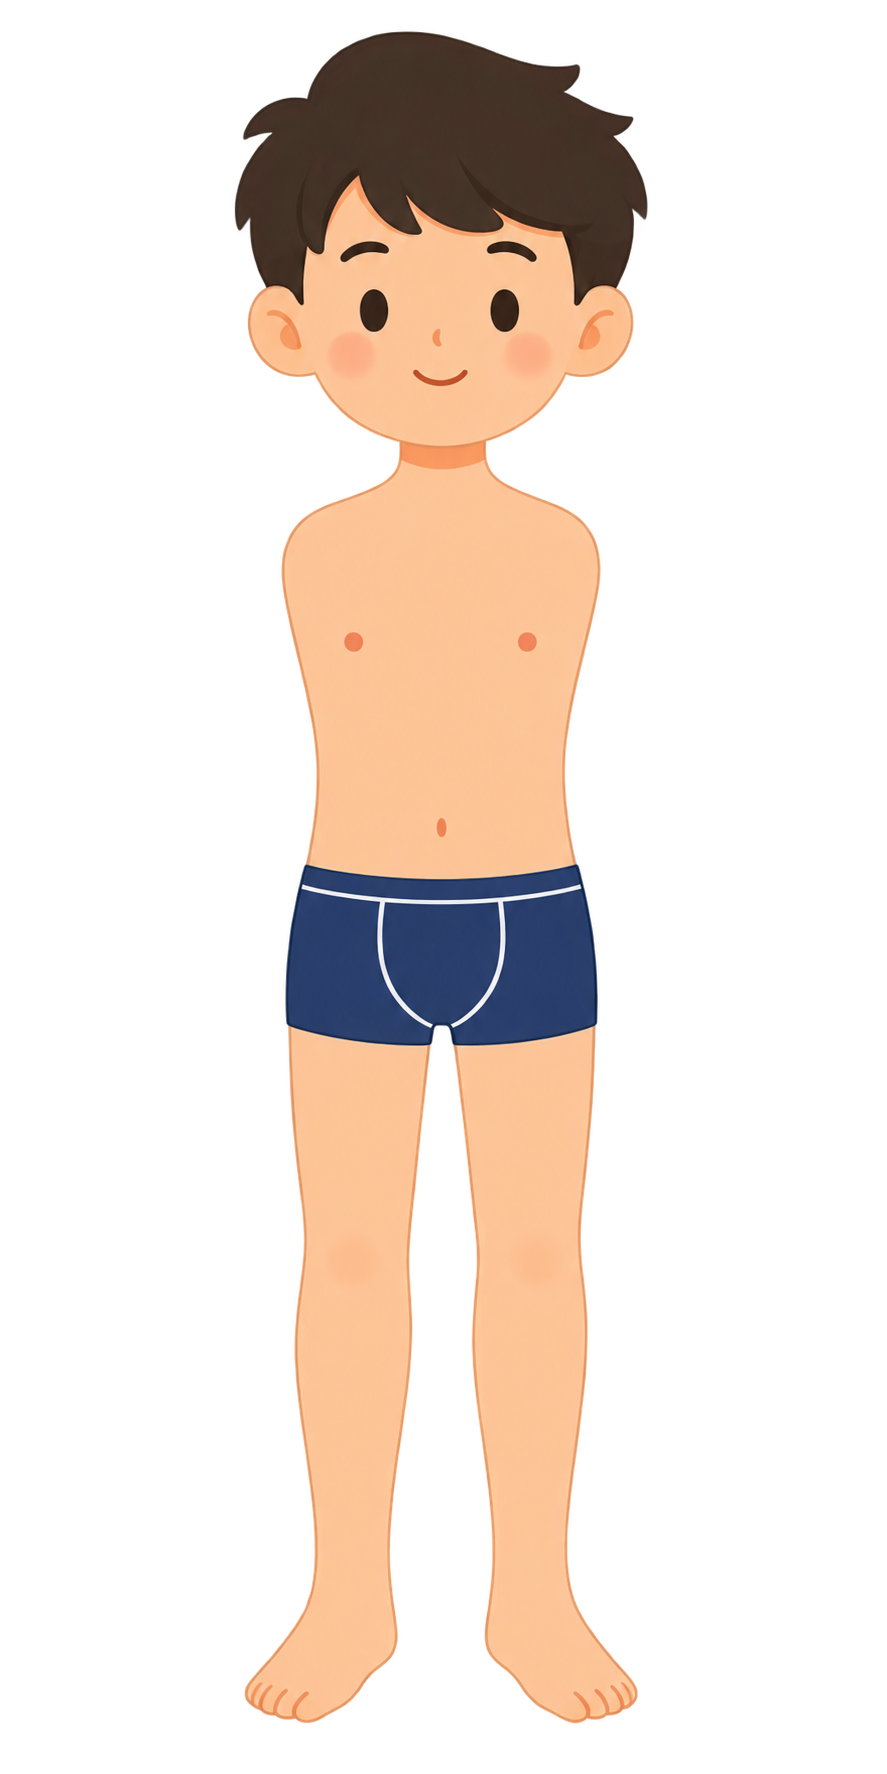
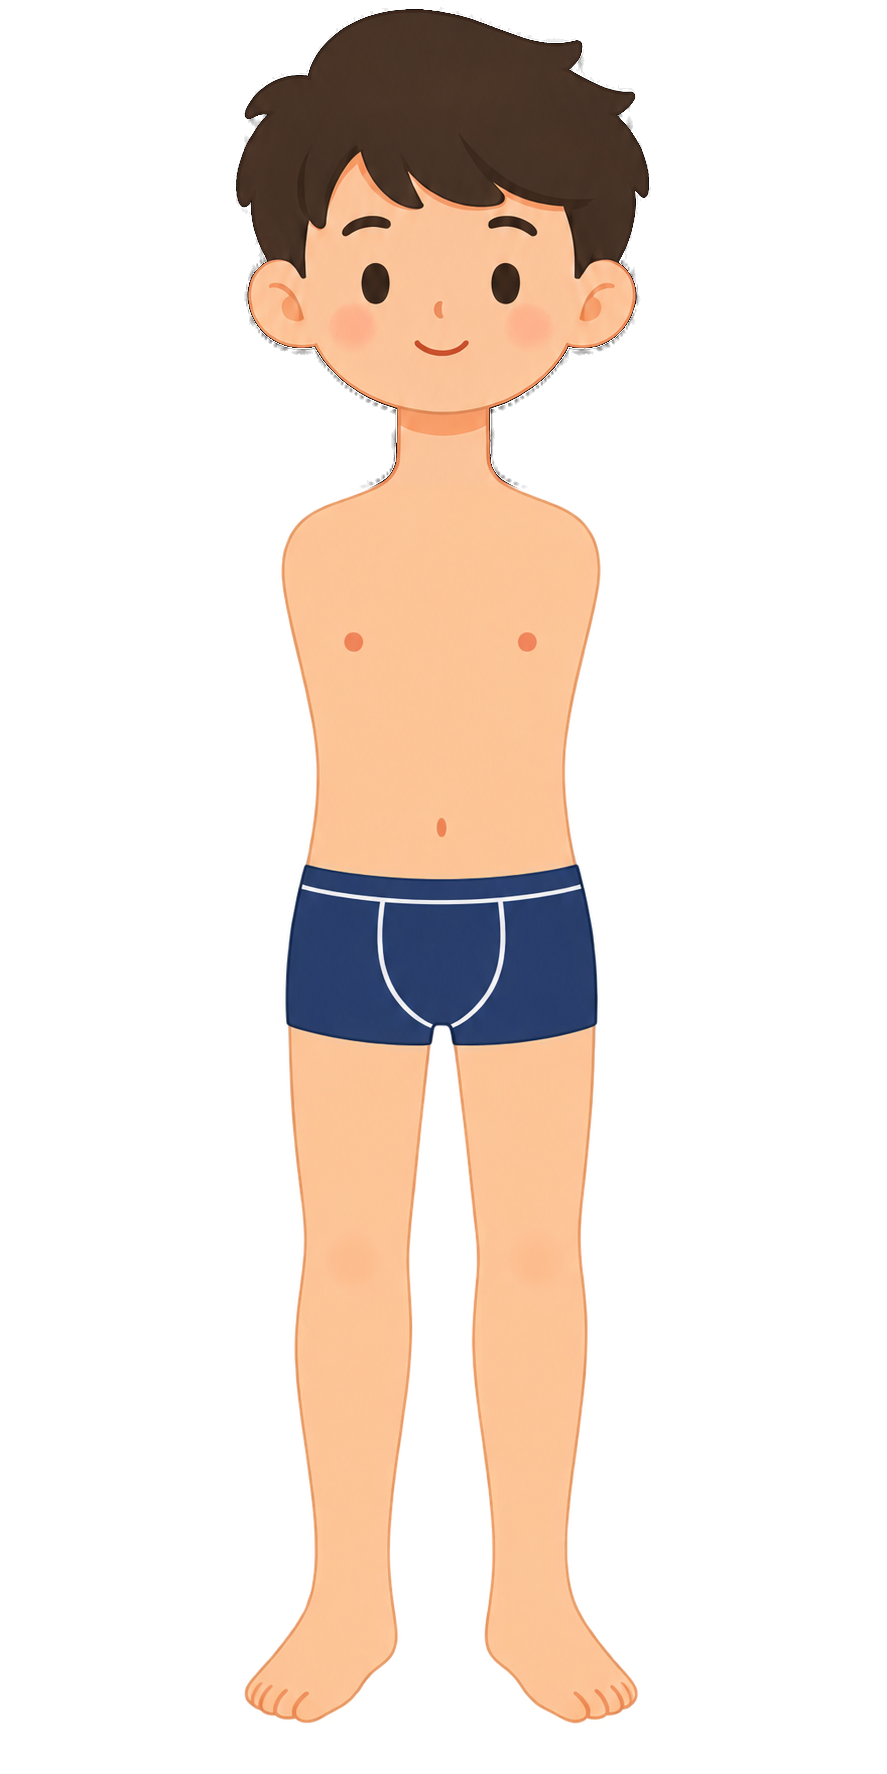
脖子伸长

Changed region(s): [[0.2435, 0.0, 0.7306, 0.279]]

diff --git a/src/features/tryon2d/tryOn2dController.js b/src/features/tryon2d/tryOn2dController.js
@@ -39,6 +39,17 @@ const MALE_CFG = {
   armPostAlignArcNudgePx: 8,
   garmentTopDropPx: 14,
   garmentShoulderPadPx: 18,
+
+  // v5: keep the original garment sizing. The only extra shoulder rule is
+  // a vertical contour guard: after the original scale is chosen, move the
+  // garment upward only when either detected garment shoulder would sit below
+  // the character shoulder contour. No additional shoulder-driven scaling.
+  garmentShoulderContourGuardEnabled: true,
+
+  // v6: after the original placement + minimal shoulder contour guard,
+  // translate male upper garments upward by a tiny fixed amount only.
+  // This never changes scale, X placement, arm geometry, or body position.
+  garmentFinalTopLiftPx: 0,
   garmentTorsoCoverFactor: 1.03,
   garmentScaleNudge: 1.03,
   garmentMinVerticalRatio: 0.84,
@@ -1962,6 +1973,8 @@ function createGarmentPlacement(garmentPrepared) {
     (ACTIVE_CFG.garmentTorsoCoverFactor || 1) /
     garmentUpperToHem;
 
+  // v5 deliberately restores the original sizing decision exactly. Shoulder
+  // coverage is NOT allowed to increase scaleX beyond this value.
   const gScaleX =
     Math.min(scaleByShoulder, scaleByTorsoHeight) *
     (ACTIVE_CFG.garmentScaleNudge || 1);
@@ -1970,12 +1983,39 @@ function createGarmentPlacement(garmentPrepared) {
 
   const topDropPx = ACTIVE_CFG.garmentTopDropPx || 0;
 
-  // Freeze the upper placement before any vertical compression.
+  // Freeze the original horizontal placement and initial vertical placement.
+  // Only the vertical shoulder-contour guard below may translate the garment.
   const gxFixed = bodyCenterX - f.centerX * gScaleX;
-  const gyFixed =
+  let gyFixed =
     shoulderY +
     topDropPx -
     f.shoulderMidY * gScaleY;
+
+  if (ACTIVE_CFG.garmentShoulderContourGuardEnabled) {
+    // Smaller Y is visually higher. The garment shoulder contour only needs
+    // to be on/above the body shoulder contour; there is no extra pad, no
+    // neckline lift, and no scale change.
+    const bodyShoulderContourY = Math.min(
+      bodySL.y,
+      bodySR.y
+    );
+
+    const garmentShoulderContourY = Math.max(
+      gyFixed + f.leftShoulder.y * gScaleY,
+      gyFixed + f.rightShoulder.y * gScaleY
+    );
+
+    if (garmentShoulderContourY > bodyShoulderContourY) {
+      gyFixed -=
+        garmentShoulderContourY -
+        bodyShoulderContourY;
+    }
+  }
+
+  // v6: a small final upward translation for male top/coat placement.
+  // Female has no garmentFinalTopLiftPx field, so its existing behavior is
+  // byte-for-byte equivalent through this branch.
+  gyFixed -= ACTIVE_CFG.garmentFinalTopLiftPx || 0;
 
   function anchors(scaleY) {
     return {
@@ -2370,6 +2410,60 @@ function renderTryOnComposite(
   // reveal the top through its neckline/opening instead of revealing bare skin.
   drawGarmentLayer(ctx, topLayout);
   drawGarmentLayer(ctx, coatLayout);
+
+  ctx.restore();
+}
+
+
+function renderMaleBaseComposite(ctx, state) {
+  const { body, leftArm, rightArm } = state;
+
+  ctx.save();
+  ctx.setTransform(1, 0, 0, 1, 0, 0);
+  ctx.clearRect(
+    0,
+    0,
+    ctx.canvas.width,
+    ctx.canvas.height
+  );
+  ctx.restore();
+
+  const armCtx = createArmContext(state);
+
+  ctx.save();
+  ctx.translate(
+    horizontalRenderPadPx(),
+    0
+  );
+
+  // v5: the male character always uses the same reference canvas, even when
+  // no upper garment/pants are active. This removes the old DOM-image <->
+  // composite-canvas swap that made the body appear to shift on try-on.
+  ctx.drawImage(
+    body,
+    0,
+    0,
+    ACTIVE_REFERENCE.width,
+    ACTIVE_REFERENCE.height
+  );
+
+  drawArm(
+    ctx,
+    leftArm,
+    armCtx.shoulders.left,
+    armCtx.lPivot,
+    armCtx.leftArmScale,
+    0
+  );
+
+  drawArm(
+    ctx,
+    rightArm,
+    armCtx.shoulders.right,
+    armCtx.rPivot,
+    armCtx.rightArmScale,
+    0
+  );
 
   ctx.restore();
 }
@@ -2964,7 +3058,16 @@ export function mountTryOn2dController(store) {
       pantsLayer.style.visibility = "hidden";
     }
 
-    if (!topSrc && !coatSrc && !wantsPantsComposite) {
+    const wantsMaleBase =
+      gender === "male" &&
+      !topSrc &&
+      !coatSrc &&
+      !wantsPantsComposite;
+
+    // Female keeps the original DOM-only idle path. Male deliberately stays on
+    // the same 887x1774 canvas in every state so the long-neck body never swaps
+    // back to character_male.png and never changes apparent position.
+    if (!topSrc && !coatSrc && !wantsPantsComposite && !wantsMaleBase) {
       state.suppressRawPants = false;
       state.renderSequence += 1;
       state.lastRenderedKey = null;
@@ -3069,7 +3172,7 @@ export function mountTryOn2dController(store) {
           }
         );
       } else if (topPrepared || coatPrepared) {
-        // Exact pre-existing upper-body render function.
+        // Existing upper-body render function.
         renderTryOnComposite(
           ctx,
           state,
@@ -3078,6 +3181,8 @@ export function mountTryOn2dController(store) {
             coatPrepared
           }
         );
+      } else if (gender === "male") {
+        renderMaleBaseComposite(ctx, state);
       } else {
         state.hasFrame = false;
         state.lastRenderedKey = null;
@@ -3115,6 +3220,23 @@ export function mountTryOn2dController(store) {
         "[tryon2d] composite render failed, falling back to original wearable layers.",
         error
       );
+
+      if (
+        gender === "male" &&
+        state.ready &&
+        state.sceneKey === "male"
+      ) {
+        // Even on an invalid garment source, never swap the male character back
+        // to the old short-neck DOM image. Keep the same base canvas/coordinates.
+        renderMaleBaseComposite(ctx, state);
+        state.hasFrame = true;
+        state.lastRenderedKey = String(key);
+        state.lastPantsLayout = null;
+        state.usesPantsComposite = false;
+        activate();
+        hideDebug();
+        return;
+      }
 
       state.hasFrame = false;
       state.lastRenderedKey = null;
@@ -3168,7 +3290,18 @@ export function mountTryOn2dController(store) {
     const hasCustomMalePants =
       gender === "male" && Boolean(pantsSrc);
 
-    if (!topSrc && !coatSrc && !hasCustomMalePants) {
+    const isMaleBaseState =
+      gender === "male" &&
+      !topSrc &&
+      !coatSrc &&
+      !hasCustomMalePants;
+
+    if (
+      gender === "female" &&
+      !topSrc &&
+      !coatSrc &&
+      !hasCustomMalePants
+    ) {
       state.suppressRawPants = false;
       state.lastPantsError = null;
       state.renderSequence += 1;
@@ -3178,10 +3311,7 @@ export function mountTryOn2dController(store) {
       state.usesPantsComposite = false;
       deactivate();
 
-      if (
-        gender === "female" &&
-        state.debugEnabled
-      ) {
+      if (state.debugEnabled) {
         drawFemaleDebug();
       } else {
         hideDebug();
@@ -3195,10 +3325,14 @@ export function mountTryOn2dController(store) {
     // same key so a good preview frame is not thrown away and rebuilt.
     // Top/coat confirmation keeps its previous scheduling behaviour.
     const selectionRenderKey =
-      selectedCategory === "pants" ||
-      (!selectedCategory && hasCustomMalePants)
-        ? "pants-stable"
-        : (selectedCategory || "saved");
+      isMaleBaseState
+        ? "male-base"
+        : (
+            selectedCategory === "pants" ||
+            (!selectedCategory && hasCustomMalePants)
+              ? "pants-stable"
+              : (selectedCategory || "saved")
+          );
 
     const key =
       `${gender}` +
